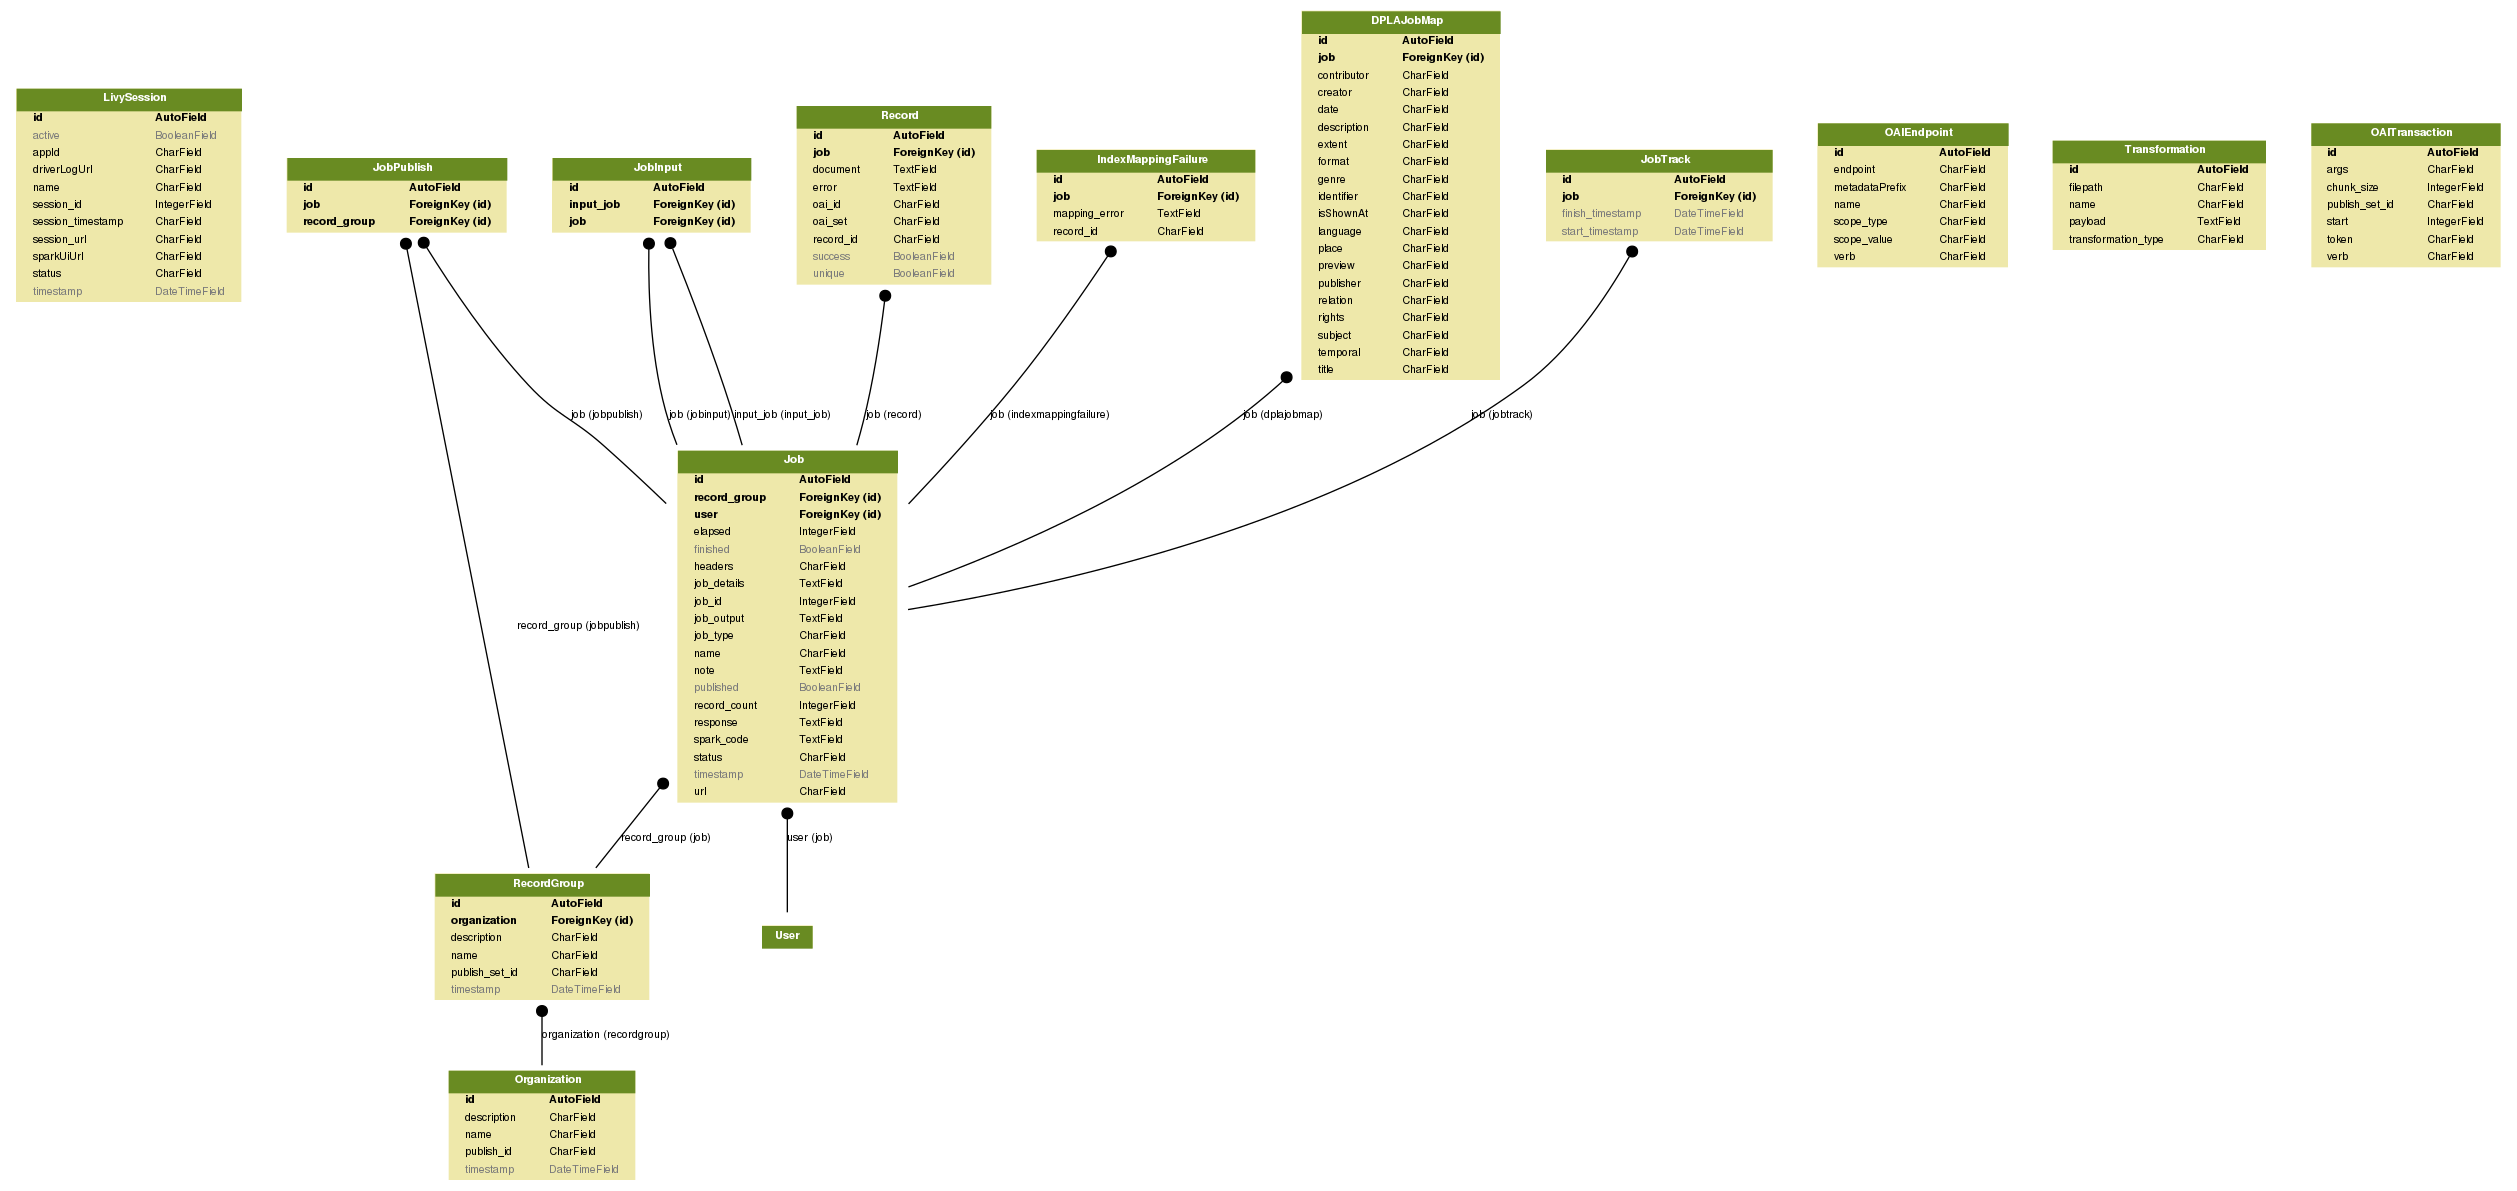
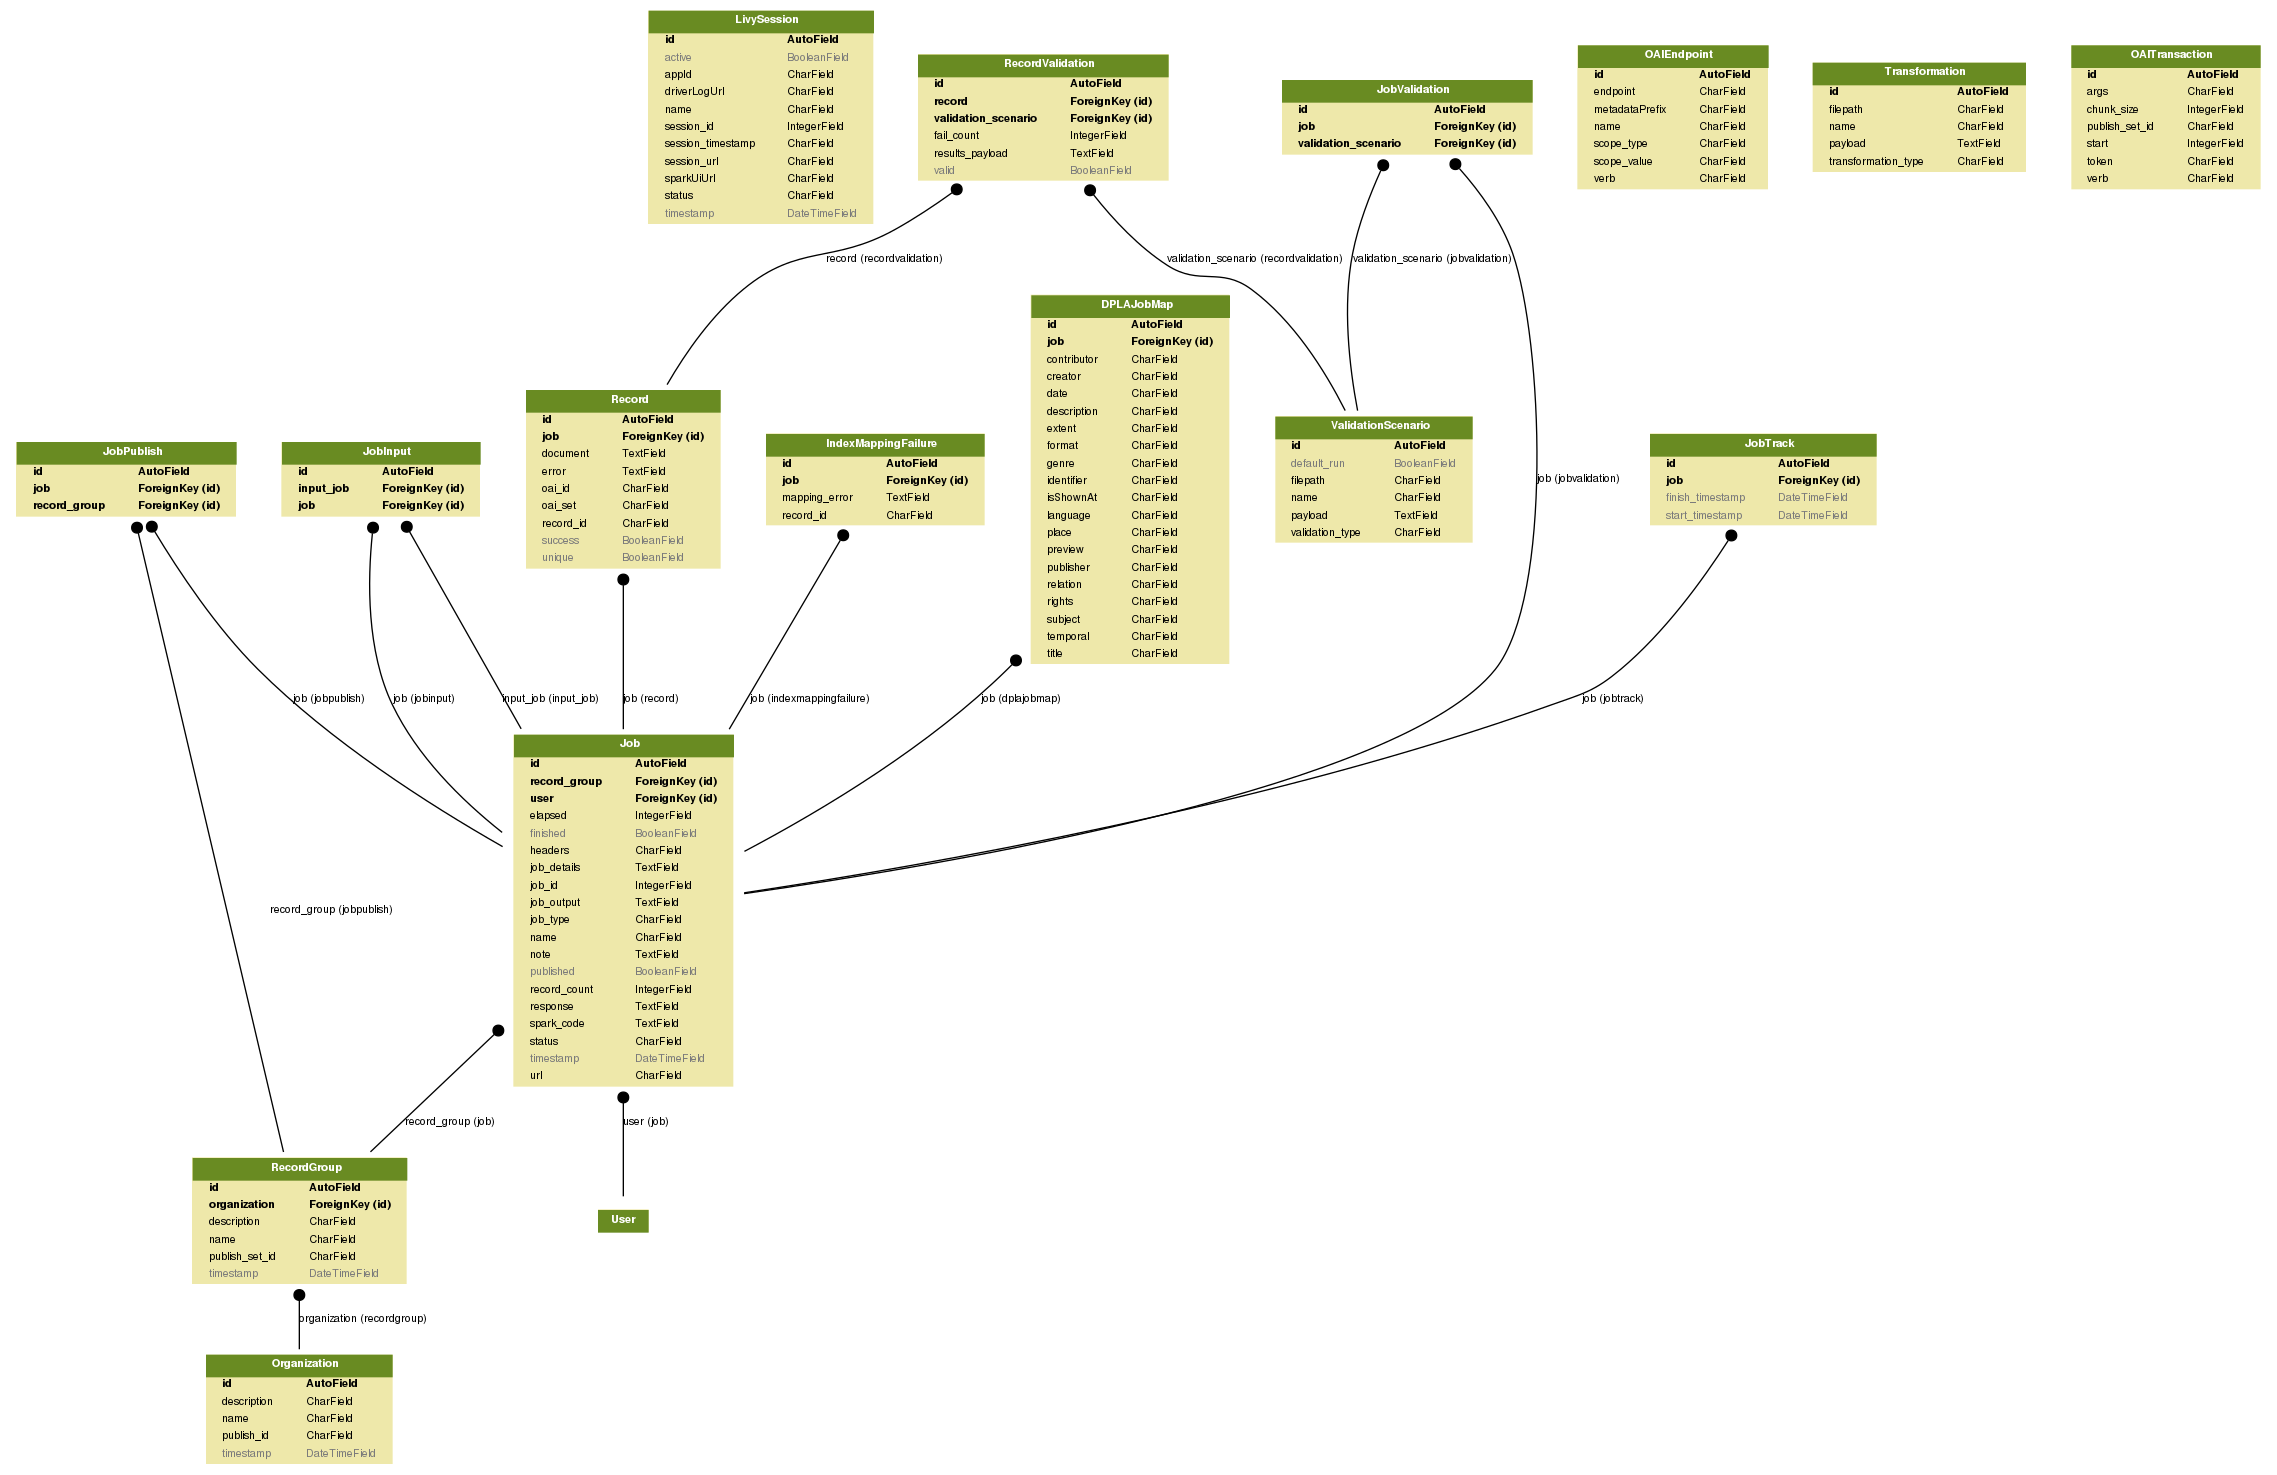
creating job validation link

diff --git a/core/models.py b/core/models.py
@@ -1157,6 +1157,17 @@ class ValidationScenario(models.Model):
 
 
 
+class JobValidation(models.Model):
+
+	'''
+	Model to record one-to-many relationship between jobs and validation scenarios run against its records
+	'''
+
+	job = models.ForeignKey(Job, on_delete=models.CASCADE)
+	validation_scenario = models.ForeignKey(ValidationScenario, on_delete=models.CASCADE)
+
+
+
 class RecordValidation(models.Model):
 
 	'''
@@ -1170,7 +1181,7 @@ class RecordValidation(models.Model):
 	fail_count = models.IntegerField(null=True, default=None)
 
 	def __str__(self):
-		return '%s, RecordValidation #%s, for Record #: %s' % (self.name, self.id, self.record.id)
+		return '%s, RecordValidation: #%s, for Record #: %s' % (self.validation_scenario.name, self.id, self.record.id)
 
 
 
@@ -2424,6 +2435,15 @@ class HarvestOAIJob(HarvestJob):
 			self.overrides = overrides
 			self.validation_scenarios = validation_scenarios
 
+			# write validation links
+			if len(self.validation_scenarios) > 0:
+				for vs_id in self.validation_scenarios:
+					val_job = JobValidation(
+						job=self.job,
+						validation_scenario=ValidationScenario.objects.get(pk=vs_id)
+					)
+					val_job.save()
+
 
 	def prepare_job(self):
 
@@ -2527,6 +2547,15 @@ class HarvestStaticXMLJob(HarvestJob):
 
 			# get validation scenarios
 			self.validation_scenarios = validation_scenarios
+
+			# write validation links
+			if len(self.validation_scenarios) > 0:
+				for vs_id in self.validation_scenarios:
+					val_job = JobValidation(
+						job=self.job,
+						validation_scenario=ValidationScenario.objects.get(pk=vs_id)
+					)
+					val_job.save()
 
 
 	def prepare_static_files(self):
@@ -2796,6 +2825,15 @@ class TransformJob(CombineJob):
 			job_input_link = JobInput(job=self.job, input_job=self.input_job)
 			job_input_link.save()
 
+			# write validation links
+			if len(self.validation_scenarios) > 0:
+				for vs_id in self.validation_scenarios:
+					val_job = JobValidation(
+						job=self.job,
+						validation_scenario=ValidationScenario.objects.get(pk=vs_id)
+					)
+					val_job.save()
+
 
 	def prepare_job(self):
 
@@ -2922,6 +2960,15 @@ class MergeJob(CombineJob):
 				job_input_link = JobInput(job=self.job, input_job=input_job)
 				job_input_link.save()
 
+			# write validation links
+			if len(self.validation_scenarios) > 0:
+				for vs_id in self.validation_scenarios:
+					val_job = JobValidation(
+						job=self.job,
+						validation_scenario=ValidationScenario.objects.get(pk=vs_id)
+					)
+					val_job.save()
+
 
 	def prepare_job(self):
 
@@ -3042,6 +3089,15 @@ class PublishJob(CombineJob):
 			# save publishing link from job to record_group
 			job_publish_link = JobPublish(record_group=self.record_group, job=self.job)
 			job_publish_link.save()
+
+			# write validation links
+			if len(self.validation_scenarios) > 0:
+				for vs_id in self.validation_scenarios:
+					val_job = JobValidation(
+						job=self.job,
+						validation_scenario=ValidationScenario.objects.get(pk=vs_id)
+					)
+					val_job.save()
 
 
 	def prepare_job(self):
